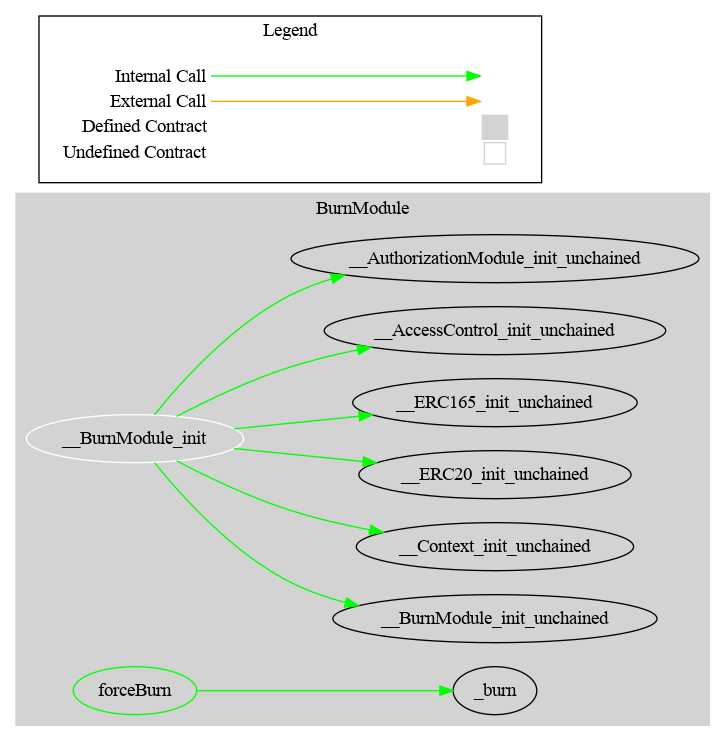
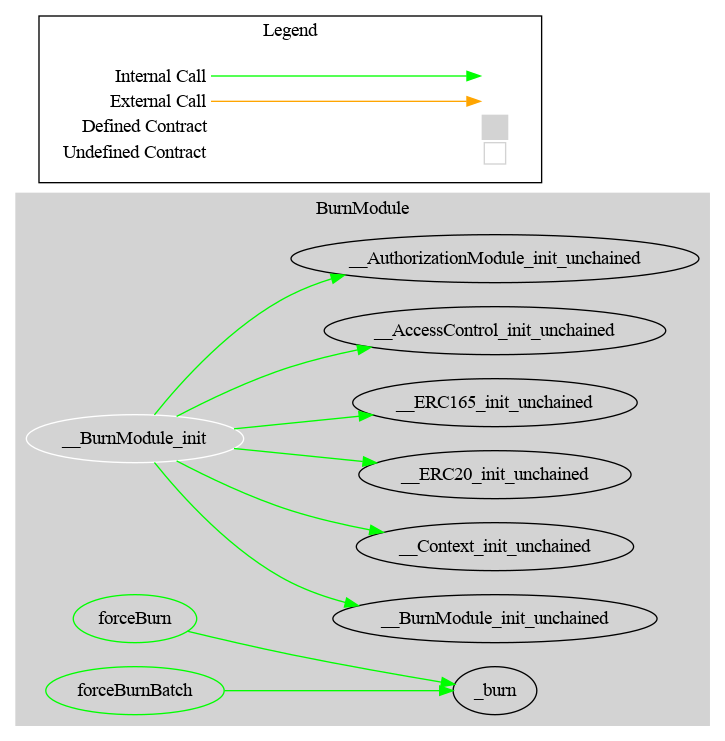
Batch functions: update doc modules

Changed region(s): [[0.0607, 0.9001, 0.3034, 0.9622], [0.091, 0.807, 0.2731, 0.8691], [0.6069, 0.9001, 0.6372, 0.9312]]

diff --git a/doc/modules/presentation/mandatory/burn.md b/doc/modules/presentation/mandatory/burn.md
@@ -26,28 +26,6 @@ This document defines Burn Module for the CMTA Token specification.
 
 
 
-## Sūrya's Description Report
-
-### Files Description Table
-
-
-| File Name                                  | SHA-1 Hash                               |
-| ------------------------------------------ | ---------------------------------------- |
-| ./modules/wrapper/mandatory/BurnModule.sol | 3547e217049388e5b1a48524255301aac8d301de |
-
-
-### Contracts Description Table
-
-
-|    Contract    |            Type             |                 Bases                 |                |                  |
-| :------------: | :-------------------------: | :-----------------------------------: | :------------: | :--------------: |
-|       └        |      **Function Name**      |            **Visibility**             | **Mutability** |  **Modifiers**   |
-|                |                             |                                       |                |                  |
-| **BurnModule** |       Implementation        | ERC20Upgradeable, AuthorizationModule |                |                  |
-|       └        |      __BurnModule_init      |              Internal 🔒               |       🛑        | onlyInitializing |
-|       └        | __BurnModule_init_unchained |              Internal 🔒               |       🛑        | onlyInitializing |
-|       └        |          forceBurn          |               Public ❗                |       🛑        |     onlyRole     |
-
 
 ### Legend
 
@@ -64,28 +42,44 @@ This section describes the Ethereum API of Burn Module.
 
 #### `forceBurn(address,uint256,string)`
 
-##### Signature:
+##### Definition
 
 ```solidity
 function forceBurn(address account,uint256 amount,string memory reason) 
 public onlyRole(BURNER_ROLE)
 ```
 
-##### Description:
+##### Description
 
 Redeem the given `amount` of tokens from the given `account`.
 Only authorized users are allowed to call this function.
+
+#### `forceBurnBatch(address[],uint256[],string)  `
+
+##### Definition
+
+```solidity
+function forceBurnBatch(address[] calldata accounts,uint256[] calldata amounts,string memory reason) 
+public onlyRole(BURNER_ROLE)
+```
+
+##### Description
+
+For each account in `accounts`, redeem  the corresponding amount of tokens given by `amounts`.
+Only authorized users are allowed to call this function.
+
+The burn `reason`is the same for all `accounts` which tokens are burnt.
 
 ### Events
 
 #### `Burn(address,uint,string)`
 
-##### Signature:
+##### Definition
 
 ```solidity
 event Burn(address indexed owner, uint256 amount, string reason)
 ```
 
-##### Description:
+##### Description
 
 Emitted when the specified `amount` of tokens was burnt from the specified `account`.

diff --git a/doc/modules/presentation/mandatory/mint.md b/doc/modules/presentation/mandatory/mint.md
@@ -33,7 +33,7 @@ This document defines Mint Module for the CMTA Token specification.
 
 | File Name                                  | SHA-1 Hash                               |
 | ------------------------------------------ | ---------------------------------------- |
-| ./modules/wrapper/mandatory/MintModule.sol | c0300d093480b66e7a9c5acd1a1c46c34f6221bb |
+| ./modules/wrapper/mandatory/MintModule.sol | 59896c200ba366d171fc377d8b78d757aefbc69d |
 
 
 ### Contracts Description Table
@@ -47,6 +47,7 @@ This document defines Mint Module for the CMTA Token specification.
 |       └        |      __MintModule_init      |              Internal 🔒               |       🛑        | onlyInitializing |
 |       └        | __MintModule_init_unchained |              Internal 🔒               |       🛑        | onlyInitializing |
 |       └        |            mint             |               Public ❗                |       🛑        |     onlyRole     |
+|       └        |          mintBatch          |               Public ❗                |       🛑        |     onlyRole     |
 
 
 ### Legend
@@ -56,6 +57,8 @@ This document defines Mint Module for the CMTA Token specification.
 |   🛑    | Function can modify state |
 |   💵    | Function is payable       |
 
+
+
 ## API for Ethereum
 
 This section describes the Ethereum API of Issue Module.
@@ -64,23 +67,37 @@ This section describes the Ethereum API of Issue Module.
 
 #### `mint(address,uint256)`
 
-##### Definition:
+##### Definition
 
 ```solidity
 function mint(address to, uint256 amount) 
 public onlyRole(MINTER_ROLE)
 ```
 
-##### Description:
+##### Description
 
 Create the given `amount` of tokens and allocate them to the given  address`to`.
+Only authorized users are allowed to call this function.
+
+#### `mintBatch(address[],uint256[]) `
+
+##### Definition
+
+```solidity
+function mintBatch(address[] calldata to,uint256[] calldata amounts) 
+public onlyRole(MINTER_ROLE)
+```
+
+##### Description
+
+For each address in `to`, create the corresponding amount of tokens given by `amounts` and allocate them to the given address`to`.
 Only authorized users are allowed to call this function.
 
 ### Events
 
 #### `Mint(address,uint256)`
 
-##### Definition:
+##### Definition
 
 
 ```solidity

diff --git a/doc/modules/presentation/mandatory/enforcement.md b/doc/modules/presentation/mandatory/enforcement.md
@@ -14,7 +14,7 @@ This document defines Enforcement Module for the CMTA Token specification.
 
 #### EnforcementModule
 
-![surya_inheritance_EnforcementModule.sol](/home/ryan/Downloads/CM/cmtat-2.3/CMTAT-doc/doc/modules/schema/surya_inheritance/surya_inheritance_EnforcementModule.sol.png)
+![surya_inheritance_EnforcementModule.sol](../../schema/surya_inheritance/surya_inheritance_EnforcementModule.sol.png)
 
 #### EnforcementModuleInternal
 
